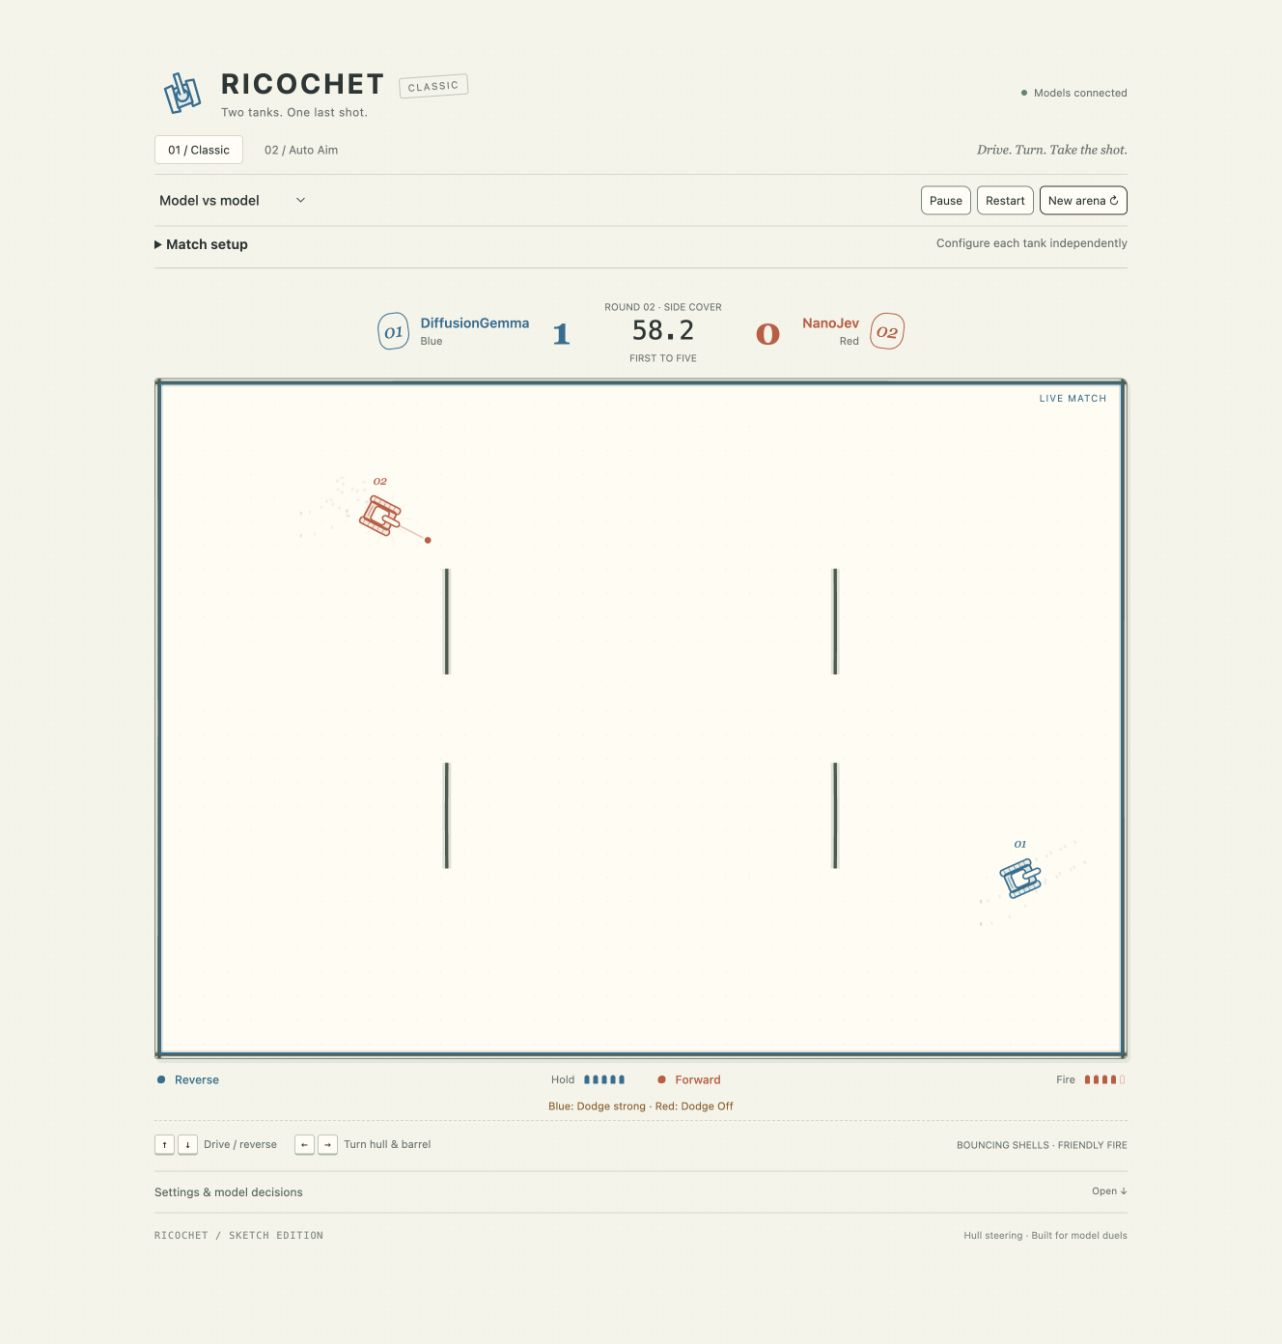
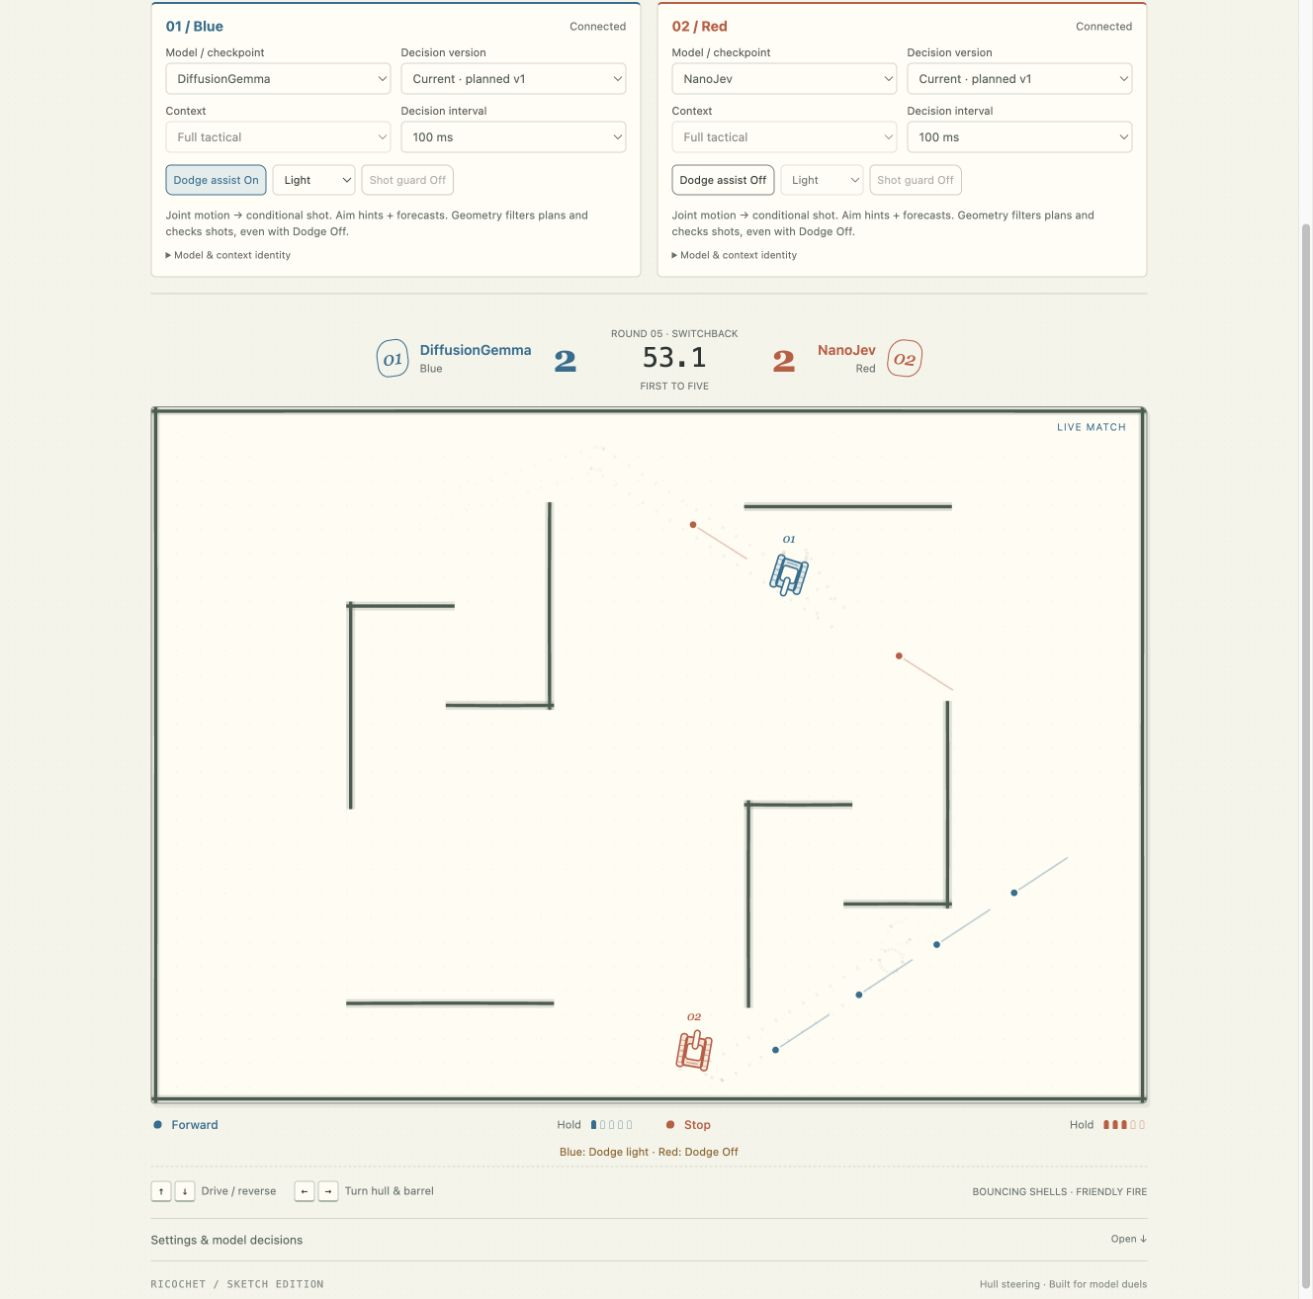
feat(tank-duel): redesign classic arenas with tactical cover

diff --git a/integrations/tank-duel/web/classic/engine.js b/integrations/tank-duel/web/classic/engine.js
@@ -39,34 +39,48 @@ export function rng(seed) {
         return ((t ^ (t >>> 14)) >>> 0) / 4294967296;
     };
 }
-// Sparse, rotationally symmetric cover: open routes and readable ricochet lanes.
-// Coordinates stay on cell boundaries so every navigation cell remains usable.
+// Rotationally symmetric cover, flanking loops and bank-shot lanes.
+// [column, row, direction, length] stays on navigation-cell boundaries.
 const ARENAS = [
     {
-        name: "Side Cover",
+        name: "Switchback",
         segments: [
-            [3, 2, "v"],
-            [7, 2, "v"],
-            [3, 4, "v"],
-            [7, 4, "v"],
+            [4, 1, "v", 2],
+            [6, 4, "v", 2],
+            [3, 3, "h", 1],
+            [6, 4, "h", 1],
+            [2, 2, "v", 2],
+            [8, 3, "v", 2],
+            [2, 2, "h", 1],
+            [7, 5, "h", 1],
+            [6, 1, "h", 2],
+            [2, 6, "h", 2],
         ],
     },
     {
-        name: "Open Field",
+        name: "Crossroads",
         segments: [
-            [3, 2, "h"],
-            [6, 2, "h"],
-            [3, 5, "h"],
-            [6, 5, "h"],
+            [2, 2, "h", 2],
+            [4, 2, "v", 1],
+            [6, 2, "h", 2],
+            [6, 2, "v", 1],
+            [2, 5, "h", 2],
+            [4, 4, "v", 1],
+            [6, 5, "h", 2],
+            [6, 4, "v", 1],
         ],
     },
     {
-        name: "Crossfire",
+        name: "Bankshot",
         segments: [
-            [3, 2, "h"],
-            [6, 5, "h"],
-            [7, 2, "v"],
-            [3, 4, "v"],
+            [4, 3, "h", 2],
+            [4, 4, "h", 2],
+            [3, 2, "v", 2],
+            [7, 3, "v", 2],
+            [2, 2, "h", 1],
+            [7, 5, "h", 1],
+            [6, 1, "h", 2],
+            [2, 6, "h", 2],
         ],
     },
 ];
@@ -77,11 +91,11 @@ export function makeMaze(seed) {
         { x: 0, y: H - 7, w: W, h: 7 },
         { x: 0, y: 0, w: 7, h: H },
         { x: W - 7, y: 0, w: 7, h: H },
-        ...layout.segments.map(([x, y, direction]) => ({
+        ...layout.segments.map(([x, y, direction, length]) => ({
             x: x * CELL - 4,
             y: y * CELL - 4,
-            w: direction === "h" ? CELL + 8 : 8,
-            h: direction === "v" ? CELL + 8 : 8,
+            w: direction === "h" ? CELL * length + 8 : 8,
+            h: direction === "v" ? CELL * length + 8 : 8,
         })),
     ];
     const maze = {
@@ -89,7 +103,7 @@ export function makeMaze(seed) {
         links: Array.from({ length: COLS * ROWS }, () => []),
         seed,
         name: layout.name,
-        revision: "open-arenas-v1",
+        revision: "tactical-arenas-v2",
     };
     // Derive the graph from physical clearance, never from the old maze's edges.
     // This keeps model waypoints consistent with the walls visible on screen.

diff --git a/integrations/tank-duel/README.md b/integrations/tank-duel/README.md
@@ -180,13 +180,17 @@ separately in the details and export.
 
 ## Classic arenas
 
-Classic uses three simple, rotationally symmetric layouts: Open Field, Side
-Cover and Crossfire. Each has just four short interior walls, wide open routes
-and a clear center. Navigation links are derived from actual tank clearance
+Classic uses three rotationally symmetric tactical layouts: **Crossroads** has
+four L-shaped covers around a central crossing; **Switchback** has staggered
+screens and flanking loops; **Bankshot** has parallel central walls and offset
+side cover for ricochet shots. Each has 8–10 interior wall sections, with
+at least 79 px of passage clearance for a 44 px tank footprint. All navigation
+cells remain reachable, with alternative routes around cover and clear spawn exits.
+Navigation links are derived from actual tank clearance
 against those walls, so model waypoints match the visible layout. Rounds rotate
 layouts deterministically; **New arena** selects a different layout and
 **Restart** keeps the match seed. Exports identify this map set as
-`open-arenas-v1`. Auto Aim retains its maze generator.
+`tactical-arenas-v2`. Auto Aim retains its maze generator.
 
 ## Collision rules
 
